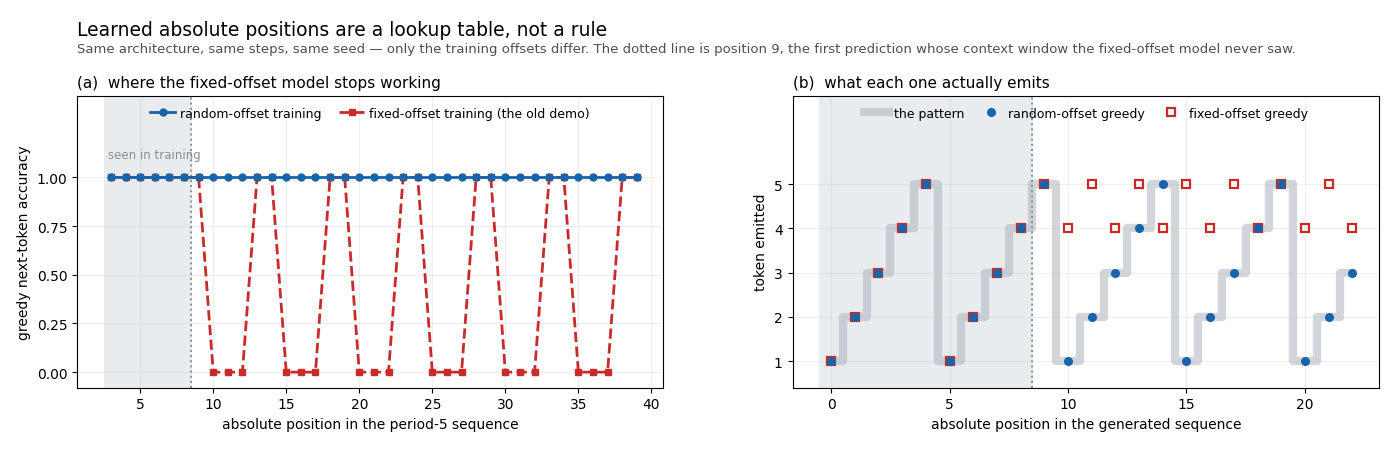
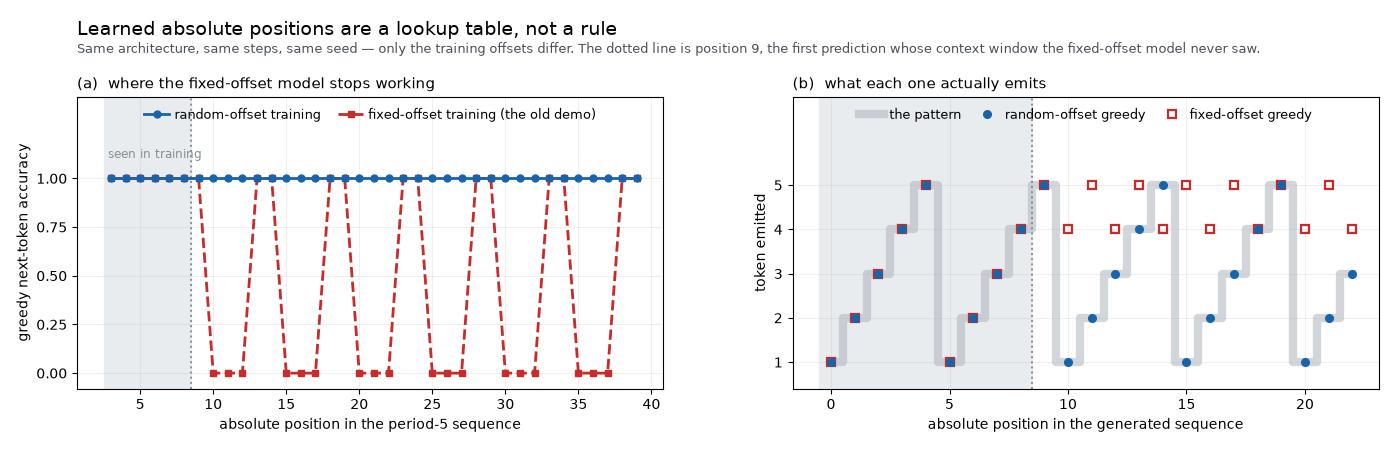
docs(readme): plainer prose, and every documented number re-measured
Rewrote the README for shorter declarative sentences and dropped the
ornamental clauses. Every number, command and path is kept; several were
wrong and are now corrected against a fresh run:

- decode speed-up: re-measured on NumPy 2.5.1 (the old figures were taken
  on 2.3.5). Nine single attempts at 256 tokens give 4.0-4.5 s uncached
  against 0.14-0.21 s cached, 21x-32x; docs/figures.py better-of-two runs
  give 22x-29x; a loaded laptop gives 17x. Stated range 15x-43x -> 17x-32x.
- kv-cache drift: 1.1e-15 is ~10 float64 ulps at the logit magnitude where
  it occurs, not five.
- validation table: it shows seven of the eleven rows, so say so.
- test_properties draw counts run 6-200, not 'a few hundred' throughout.
- decode-benchmark model: state the exact 922,368 parameters.
- figure determinism is per-matplotlib-version; note that upgrading it
  produces a diff.

Documented what was previously implicit: examples/ and docs/ are not part
of the installed package and need PYTHONPATH=. from the repo root, the
dev extra is what supplies matplotlib, the suite is 80 tests, and
examples/regime_handoff.py now has the command that produces the output
block quoted under it.

Figures regenerated with the documented command (matplotlib 3.11.1).

diff --git a/README.md b/README.md
@@ -3,34 +3,33 @@
 [![ci](https://github.com/superkush06/transformer-from-scratch/actions/workflows/ci.yml/badge.svg)](https://github.com/superkush06/transformer-from-scratch/actions/workflows/ci.yml)
 [![license](https://img.shields.io/badge/license-MIT-green.svg)](LICENSE)
 
-A GPT written the long way. Every backward pass in this repository was
-derived on paper and typed out as NumPy — there is no autograd, no tape,
-no `.backward()`. When you read `tfs/attention.py`, you are reading the
-chain rule.
+A decoder-only GPT in NumPy with no autograd. Every backward pass —
+attention, LayerNorm, GELU, cross-entropy — was derived by hand and
+written out as explicit NumPy. There is no tape and no `.backward()`.
 
-Doing that is only worth anything if the derivatives are actually right,
-so the centrepiece here is not the model. It is the evidence: 1,312
-hand-computed partial derivatives, every one of them checked against the
-definition of a derivative. `examples/gradcheck.py` sweeps all 1,312;
-CI checks all 29 parameter tensors on every push, sampling coordinates
-inside the large ones so the build stays under a second.
+Hand-derived gradients are easy to get subtly wrong, so most of the work
+here is the evidence that these ones are right: 1,312 hand-computed
+partial derivatives, each checked against a central difference.
+`examples/gradcheck.py` sweeps all 1,312 in about half a second. CI
+checks all 29 parameter tensors on every push, sampling coordinates
+inside the large ones so that test stays under a second.
 
 ![hand-derived gradients against central differences](docs/gradcheck.png)
 
 **(a)** every scalar gradient in a 2-block model, plotted against the
-central difference that measures it — 1,312 points across five decades,
+central difference that measures it — 1,312 points spanning five decades,
 all on the diagonal, all with the right sign. **(b)** the worst relative
-error inside each of the 29 parameter tensors; the loosest is
+error inside each of the 29 parameter tensors. The loosest is
 `blocks.0.ffn.down.W` at 3.1e-07, a factor of 330 inside the 1e-4
-relative tolerance CI enforces. **(c)** why the check uses `eps = 1e-5`:
-truncation error falls like ε² while floating-point cancellation grows
-like η/ε, so their sum is a V whose minimum sits at ε ≈ η^(1/3) and whose
+relative tolerance CI enforces. **(c)** why the check uses `eps = 1e-5`.
+Truncation error falls like ε² and floating-point cancellation grows like
+η/ε, so their sum is a V whose minimum sits at ε ≈ η^(1/3) and whose
 depth is ≈ η^(2/3). The *shape* is what the algebra in
-[`docs/theory.md`](docs/theory.md) predicts; the *position* is close but
-not equal. The sweep bottoms out at ε = 3e-05, 3.6x to the right of the
+[`docs/theory.md`](docs/theory.md) predicts. The *position* is close but
+not equal: the sweep bottoms out at ε = 3e-05, 3.6x to the right of the
 ε* ≈ 9e-6 the idealisation gives, at a median relative error of 4e-10,
-11x above its η^(2/3) ≈ 4e-11 floor — the gap is the |f| and |f‴|
-factors the idealisation sets to 1.
+11x above its η^(2/3) ≈ 4e-11 floor. The gap is the |f| and |f‴| factors
+the idealisation sets to 1.
 
 ## Install
 
@@ -38,16 +37,21 @@ factors the idealisation sets to 1.
 git clone https://github.com/superkush06/transformer-from-scratch.git
 cd transformer-from-scratch
 pip install -e ".[dev]"
-pytest
+pytest                                        # 80 tests, ~10 s
 ```
 
-NumPy is the only runtime dependency; matplotlib is dev-only, for figures.
+NumPy is the only runtime dependency. The `dev` extra adds pytest, ruff
+and matplotlib; matplotlib is needed only to redraw the figures.
+
+The scripts under `examples/` and `docs/` are not part of the installed
+package, so run them from the repository root with `PYTHONPATH=.`, as
+shown below.
 
 ## The API in one page
 
-Forward passes return `(output, cache)`, and backward passes consume that
-cache. It is more typing than a tape, and that is the point — the
-computation graph is a thing you can see.
+Forward passes return `(output, cache)`, and backward passes take that
+cache back. That is more typing than a tape, and it is the point: the
+computation graph is explicit rather than hidden.
 
 ```python
 >>> import numpy as np
@@ -74,7 +78,8 @@ computation graph is a thing you can see.
 (24, 24)
 ```
 
-Four hundred steps later, greedy decoding on the period-5 toy task:
+After 400 training steps, greedy decoding on the period-5 toy task
+(start the interpreter in the repository root so `examples` imports):
 
 ```python
 >>> from examples.train_pattern import train
@@ -84,13 +89,14 @@ array([1, 2, 3, 4, 5, 1, 2, 3, 4, 5])
 ```
 
 `temperature=0` is exact greedy decoding. Negative temperatures and
-out-of-vocabulary ids raise `ValueError` rather than quietly returning
-something plausible.
+out-of-vocabulary ids raise `ValueError` instead of returning something
+plausible.
 
 ## Every gradient, checked against the definition
 
 `PYTHONPATH=. python3 examples/gradcheck.py` perturbs every scalar of
-every tensor and compares the measured slope with the hand-derived one:
+every tensor and compares the measured slope with the hand-derived one.
+It takes about half a second:
 
 ```
 2-block GPT: 29 parameter tensors, 1,312 scalars, central differences at eps=1e-5
@@ -134,23 +140,25 @@ PASS (tolerance 1e-04)
 ```
 
 The embedding tables show larger *absolute* errors than everything else
-because their gradients are larger; relative to their own magnitude they
+because their gradients are larger. Relative to their own magnitude they
 are as accurate as the rest. `tests/test_gradcheck.py` runs the same
 check over sampled coordinates on every push, parametrised over
-`GPT.named_params()` — so a parameter added to the model is grad-checked
-the day it is added, not the day someone remembers to add it to a list.
+`GPT.named_params()`, so a parameter added to the model is grad-checked
+the day it is added and nobody has to update a list.
 
 ## Checked against things that are not this repo
 
-A test suite proves a library agrees with itself. The gradient check
-above is better than that — a central difference knows nothing about the
-backward pass it is grading — and
-[`docs/validation.md`](docs/validation.md) extends the idea to ten more
-claims. One command produces every number in it:
+A test suite only shows that a library agrees with itself. A central
+difference does not: it knows nothing about the backward pass it is
+grading. [`docs/validation.md`](docs/validation.md) applies that idea to
+ten more claims, each checked against a closed form or a published paper.
+One command produces every number in it:
 
 ```bash
 PYTHONPATH=. python3 examples/validate.py        # ~20 s
 ```
+
+Seven of the eleven rows:
 
 | claim | ours | reference | source |
 | ----- | ---- | --------- | ------ |
@@ -162,33 +170,34 @@ PYTHONPATH=. python3 examples/validate.py        # ~20 s
 | LayerNorm output variance | `0.9999972221` | 1.0 — **does not match** | Ba, Kiros & Hinton (2016) |
 | held-out cross-entropy on a second-order Markov source | `0.9085` nats | `0.9068` (the source itself) | Cover & Thomas, §4.2 |
 
-Two of the eleven rows disagree, and both stay in the table. The GELU
-here is the tanh approximation, so it is 4.7e-04 away from `x·Φ(x)` by
-construction — and its *derivative* is exact for the function actually
-implemented, which is what the gradient check confirms. LayerNorm cannot
-emit unit variance because it divides by `sqrt(var + eps)`; the measured
-value matches `var/(var+eps)` to 2e-16. Neither is a bug, and rounding
-either one away would have made the page less useful, not more.
+Two of the eleven rows disagree with their reference, and both stay in.
+The GELU here is the tanh approximation, so it is 4.7e-04 away from
+`x·Φ(x)` by construction, and its *derivative* is exact for the function
+actually implemented — which is what the gradient check confirms.
+LayerNorm cannot emit unit variance because it divides by
+`sqrt(var + eps)`; the measured value matches `var/(var+eps)` to 2e-16.
+Neither is a bug, so neither is rounded away.
 
-The last row is the one that took the most work to be able to write. The
-source is a second-order Markov chain, so its entropy rate is available
-in closed form and no predictor can score below it; the model lands
-0.0017 nats above the oracle on the same tokens, and beats a bigram
-baseline by 0.0287 nats. Of that margin, 0.0260 nats is the closed-form
-edge I(X; X₋₂ | X₋₁) that any predictor looking two labels back can
-claim; the remaining 0.0027 is finite-sample slack on one 4,000-label
-draw, not a second source of skill. Full write-up, including why the
-model appears to beat the population entropy rate and does not:
+The last row took the most work. The source is a second-order Markov
+chain, so its entropy rate is available in closed form and no predictor
+can score below it. The model lands 0.0017 nats above the oracle on the
+same tokens and beats a bigram baseline by 0.0287 nats. Of that margin,
+0.0260 nats is the closed-form edge I(X; X₋₂ | X₋₁) that any predictor
+looking two labels back can claim; the remaining 0.0027 is finite-sample
+slack on one 4,000-label draw, not a second source of skill. The full
+write-up, including why the model appears to beat the population entropy
+rate and does not, is in
 [`docs/validation.md`](docs/validation.md).
 
 Alongside it, `tests/test_properties.py` asserts the laws rather than the
-values — softmax lands on the simplex and is invariant to a constant
+values: softmax lands on the simplex and is invariant to a constant
 shift, LayerNorm's `d_x` is orthogonal to both directions the layer
 discards, a batch gradient is the mean of its rows, an attention output
 lies inside the convex hull of the values it may see, Adam's first step
-is `-lr·sign(g)` whatever the gradient's magnitude. Each is drawn a few
-hundred times from a seeded generator, so passing means the identity
-held, not that a fixture did.
+is `-lr·sign(g)` whatever the gradient's magnitude. Each property is
+drawn dozens to a couple of hundred times from a seeded generator, so a
+pass means the identity held across the draws, not that one fixture
+matched.
 
 ## Decoding without recomputing the past
 
@@ -200,15 +209,15 @@ tensors *are* the numbers a full forward pass would recompute. The
 derivation is in [`docs/theory.md`](docs/theory.md).
 `tests/test_kv_cache.py` requires the cached and recomputed logits to
 agree to better than 1e-12 at every step, for greedy and for sampled
-decoding alike; the worst disagreement it actually sees is 1.1e-15, or
-five units in the last place of a float64.
+decoding alike. The worst disagreement it actually sees is 1.1e-15 —
+about ten float64 ulps at the logit value where it occurs.
 
 ![decode work with and without the key/value cache](docs/kv_cache.png)
 
 What the cache removes is counted rather than timed. `docs/figures.py`
 instruments `GPT` and records how many token-positions each decoding
-strategy pushes through the block stack — an integer, identical on every
-machine, and checked against the closed form
+strategy pushes through the block stack. That is an integer, identical on
+every machine, and it is checked against the closed form
 `sum_i min(prompt + i, max_T)` before the figure is drawn:
 
 | tokens | full recompute | key/value cache | positions saved |
@@ -221,34 +230,28 @@ machine, and checked against the closed form
 
 (8-token prompt, `max_T = 512`, so nothing here slides the window.)
 
-Wall-clock does not follow that ratio, and it would be dishonest to
-imply it does — or to quote it as a tight band. On one core of an Apple
-M2 (macOS 15.0.1, CPython 3.12.6, NumPy 2.3.5, laptop otherwise idle) a
-4-block `d_model=128` model decoding 256 tokens took 5.0–9.4 s uncached
-and 0.19–0.46 s cached over nine single attempts, a speed-up of 15x to
-37x. `docs/figures.py` reports the better of two attempts per
-configuration, which trims the slow tail and so reads higher: eight
-consecutive runs of it printed 20.3x, 25.5x, 28.5x, 28.8x, 28.8x,
-32.2x, 36.5x and 42.8x — median 29x, on full times of 3.7–6.8 s
-against cached times of 0.13–0.20 s. Taken together that is **15x to
-43x**, not 132x, and the high end belongs to the better-of-two number
-the script prints — so running the command below can legitimately show
-more than the nine-attempt range does.
+Wall-clock does not follow that ratio, and it is not a tight band either.
+On one core of an Apple M2 (macOS 15.0.1, CPython 3.12.6, NumPy 2.5.1,
+laptop otherwise idle) a 4-block `d_model=128` model decoding 256 tokens
+took 4.0–4.5 s uncached and 0.14–0.21 s cached over nine single attempts:
+21x to 32x, median 25x. `docs/figures.py` reports the better of two
+attempts per configuration; eight consecutive runs of it printed 22x to
+29x, median 27x. On a laptop that was not idle the same script printed
+17x, on 7.5 s uncached against 0.44 s cached. Call it 17x to 32x, not
+132x. Your machine and its current load will move it.
 
-Two reasons the ratio is both smaller and noisier than the position
-count: a cached step still attends over the whole prefix, so its cost
-is not constant, and at these sizes much of what is left is Python and
-NumPy call overhead that the cache does not touch — overhead that
-shares the machine with everything else running on it.
-`PYTHONPATH=. python3 docs/figures.py` prints your own numbers rather
-than asking you to trust these.
+Two reasons the ratio is smaller and noisier than the position count: a
+cached step still attends over the whole prefix, so its cost is not
+constant, and at these sizes much of what is left is Python and NumPy
+call overhead that the cache does not touch. Run
+`PYTHONPATH=. python3 docs/figures.py` to get your own numbers.
 
-The cache has one honest failure mode, and it is instructive. Position
+The cache has one failure mode, and it is instructive. Position
 embeddings here are *learned and absolute*, so the moment the context
 window slides past `max_T`, every surviving token is assigned a new
 position id and the whole cache becomes invalid. `generate` detects that
-and rebuilds. The cost belongs to absolute positions rather than to
-caching, and it is one of the quieter arguments for relative schemes.
+and rebuilds. The cost belongs to absolute positions, not to caching, and
+it is one of the arguments for relative schemes.
 
 ## What the loss will not tell you
 
@@ -273,7 +276,7 @@ greedy next-token accuracy at each position makes the failure legible:
 Position 9 is the first prediction whose context window the fixed-offset
 model never saw in training, and that is exactly where it falls off the
 cliff. The oscillation afterwards is phase error drifting in and out of
-alignment — not partial knowledge. Sampling training windows at random
+alignment, not partial knowledge. Sampling training windows at random
 offsets removes the shortcut, and `tests/test_generalization.py` keeps it
 removed: greedy generation must reproduce the pattern exactly for 20
 tokens past the training window.
@@ -285,9 +288,8 @@ Full write-up: [`docs/positional-generalization.md`](docs/positional-generalizat
 This is the deep-learning-internals layer of a group of small NumPy
 libraries. It shares its premise with **tinydiff**, which builds a
 reverse-mode autodiff engine and then lets the tape write the backward
-pass; here the tape is removed and the same derivatives are written out
-by hand, which is a worse way to build a model and a better way to
-understand one.
+pass. Here there is no tape and the same derivatives are written out by
+hand: a worse way to build a model and a better way to understand one.
 
 It is also rarely the whole pipeline. Upstream, something turns a
 continuous series into discrete labels — a Gaussian HMM decoded with
@@ -295,12 +297,16 @@ Viterbi, of the kind **regimes** implements. Downstream, something wants
 a distribution over the next label rather than a point forecast: a sizing
 rule (**kelly-bet**) or a tail-risk model (**risk**).
 
-`examples/regime_handoff.py` is that middle stage, worked end to end and
-self-contained — it imports nothing but `tfs`, and inlines the upstream
-source as a second-order Markov chain over four labels (calm/stressed
-crossed with up/down). Inlining it is what makes the example checkable:
-the chain's conditional distribution and entropy rate are closed forms,
-so the example can grade itself instead of just running.
+`examples/regime_handoff.py` is that middle stage, worked end to end. It
+imports nothing but `tfs`, and inlines the upstream source as a
+second-order Markov chain over four labels (calm/stressed crossed with
+up/down). Inlining it is what makes the example checkable: the chain's
+conditional distribution and entropy rate are closed forms, so the
+example grades itself instead of just running.
+
+```bash
+PYTHONPATH=. python3 examples/regime_handoff.py   # ~14 s
+```
 
 ```
 held-out cross-entropy, nats/label (lower is better)
@@ -336,11 +342,12 @@ be. The training loss does not.
 | `examples/regime_handoff.py` | the worked hand-off: labels in, a scored distribution out |
 | `tests/test_properties.py` | randomised invariants — the laws, not the values |
 
-Everything regenerates from a cold start. The figures are deterministic —
-fixed seeds, counted operations rather than wall-clock — so re-running
-this on the same matplotlib writes byte-identical PNGs, and a figure that
-has drifted from the script that draws it shows up as a dirty working
-tree:
+Everything regenerates from a cold start. The figures use fixed seeds and
+counted operations rather than wall-clock, so re-running on the same
+matplotlib version writes byte-identical PNGs, and a figure that has
+drifted from the script that draws it shows up as a dirty working tree.
+A different matplotlib version redraws them slightly differently, so
+expect a diff after upgrading it.
 
 ```bash
 PYTHONPATH=. python3 docs/figures.py          # all three figures, ~15 s
@@ -351,7 +358,7 @@ PYTHONPATH=. python3 examples/validate.py     # the validation table, ~20 s
 
 - **Not fast.** float64 NumPy, no GPU, no fused kernels. Everything is
   small on purpose: the toy tasks train in seconds, and the biggest model
-  in the repo is the 0.9M-parameter one the decode benchmark uses. The
+  in the repo is the 922,368-parameter one the decode benchmark uses. The
   backward pass allocates freely — legibility beat speed every time the
   two disagreed.
 - **Not a training stack.** No dropout, no weight decay, no
